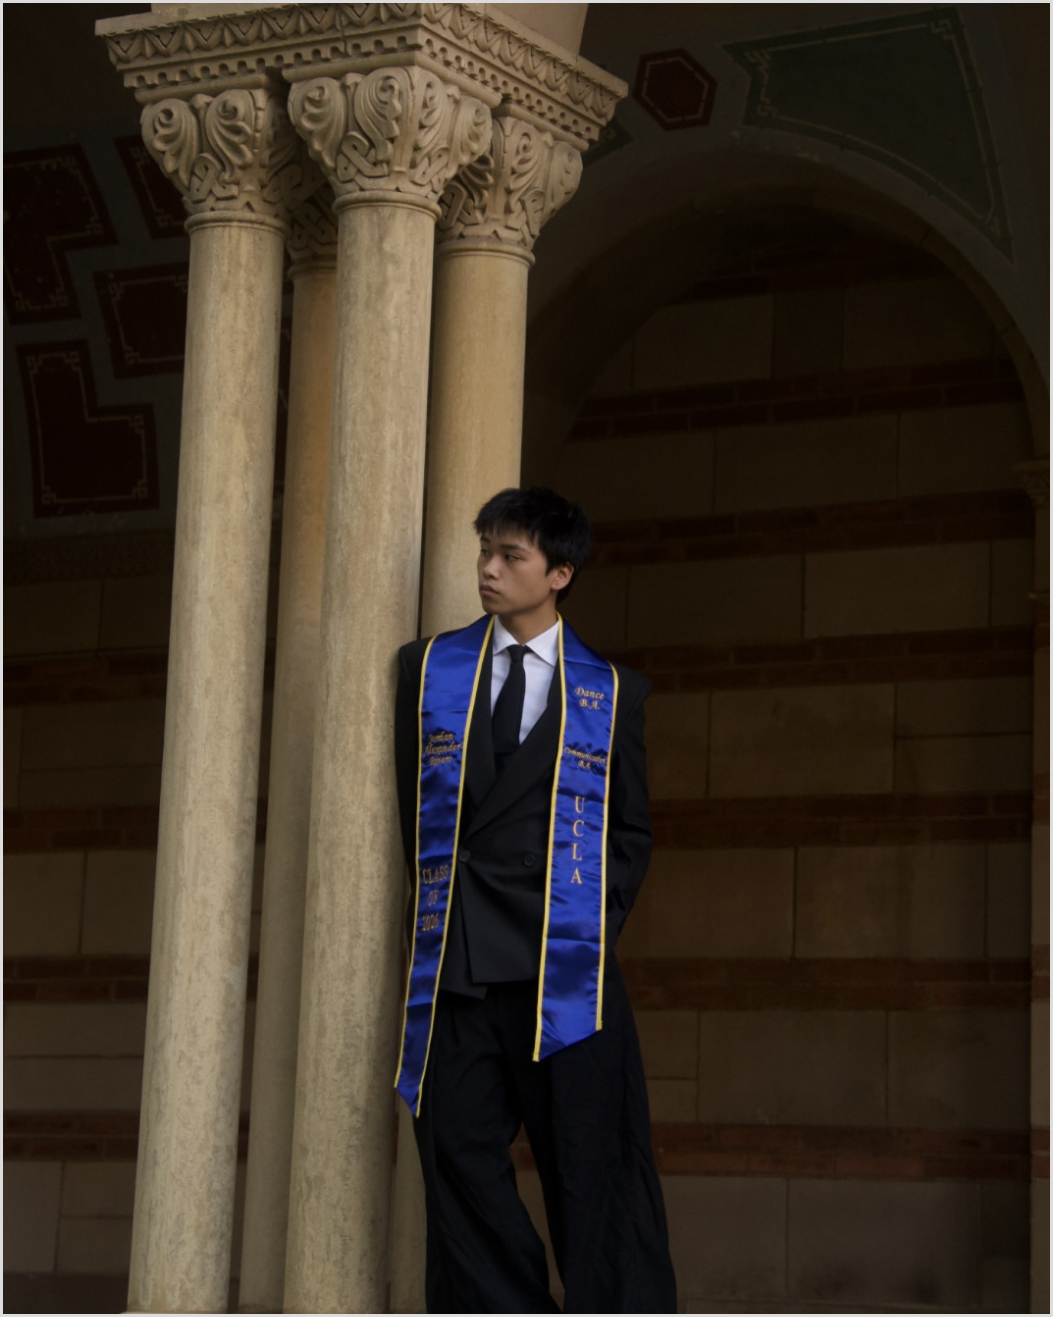
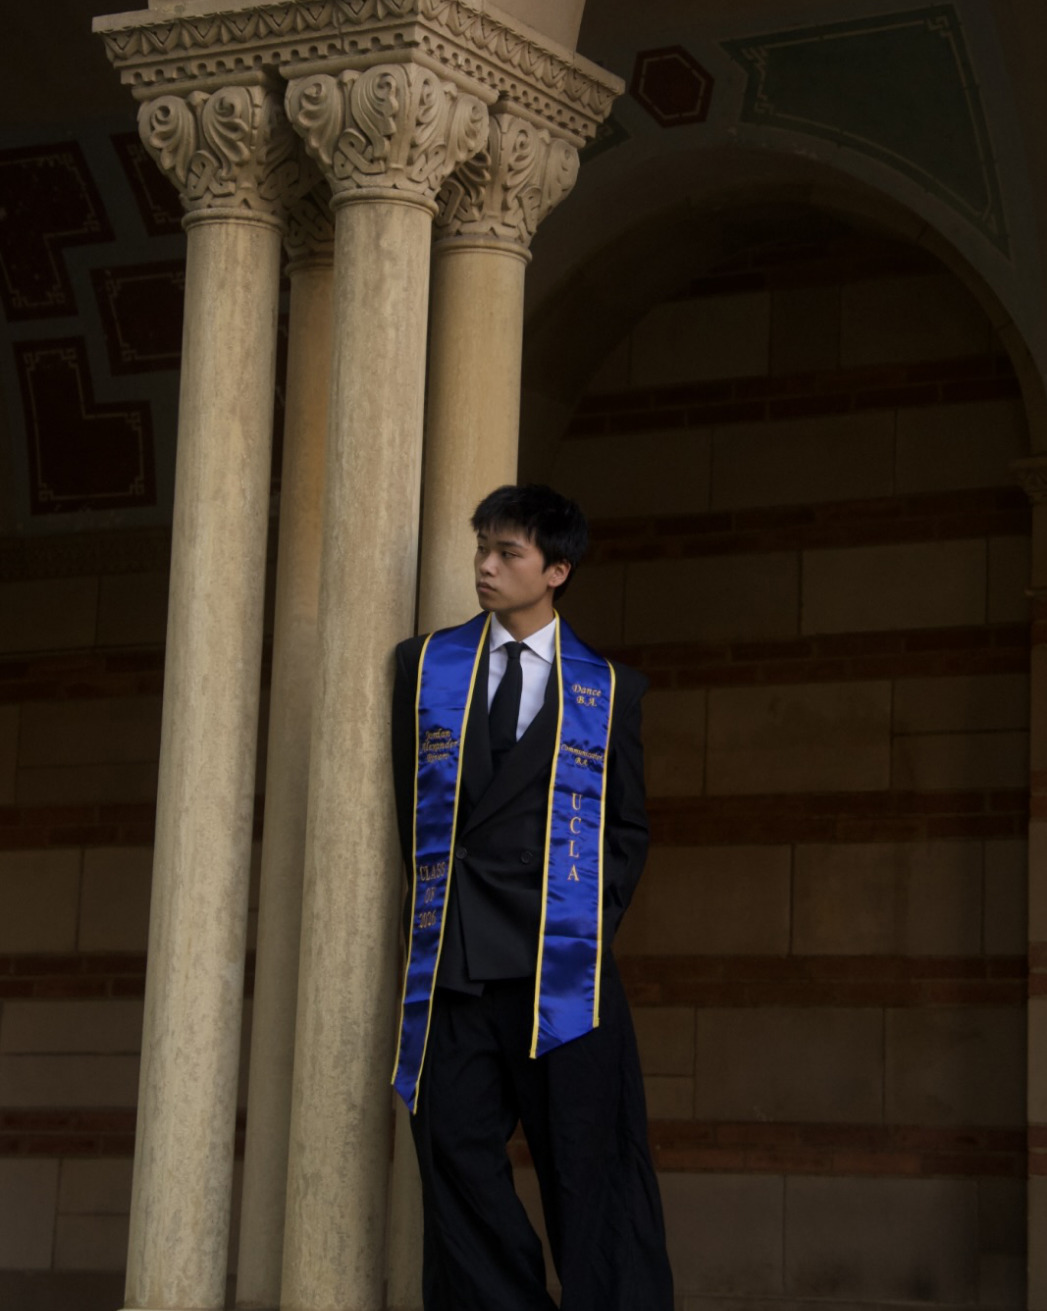
Trim the baked-in grey frame off the about intro photos
The exported photos carried a 3px #dcdcdc border (Figma's 1px at 3x);
Figma 328:543 shows them borderless.

diff --git a/about.html b/about.html
@@ -38,9 +38,9 @@
       <div class="about__hello">
         <h1 class="about__title" data-reveal>hi, designer friends and creative people!</h1>
         <div class="about__photos">
-          <img data-reveal src="assets/about/photo-palace.jpg" width="960" height="888" style="--w: 320; --h: 296" alt="The Palace of Fine Arts in San Francisco lit up at night" loading="lazy">
-          <img data-reveal src="assets/about/photo-grad.jpg" width="1053" height="1317" style="--w: 351; --h: 439" alt="Jordan in a suit and UCLA graduation stole beside stone columns" loading="lazy">
-          <img data-reveal src="assets/about/photo-selfie.jpg" width="720" height="639" style="--w: 240; --h: 213" alt="Jordan taking a mirror selfie in glasses and a knit sweater" loading="lazy">
+          <img data-reveal src="assets/about/photo-palace.jpg" width="954" height="882" style="--w: 320; --h: 296" alt="The Palace of Fine Arts in San Francisco lit up at night" loading="lazy">
+          <img data-reveal src="assets/about/photo-grad.jpg" width="1047" height="1311" style="--w: 351; --h: 439" alt="Jordan in a suit and UCLA graduation stole beside stone columns" loading="lazy">
+          <img data-reveal src="assets/about/photo-selfie.jpg" width="714" height="633" style="--w: 240; --h: 213" alt="Jordan taking a mirror selfie in glasses and a knit sweater" loading="lazy">
         </div>
       </div>
 
